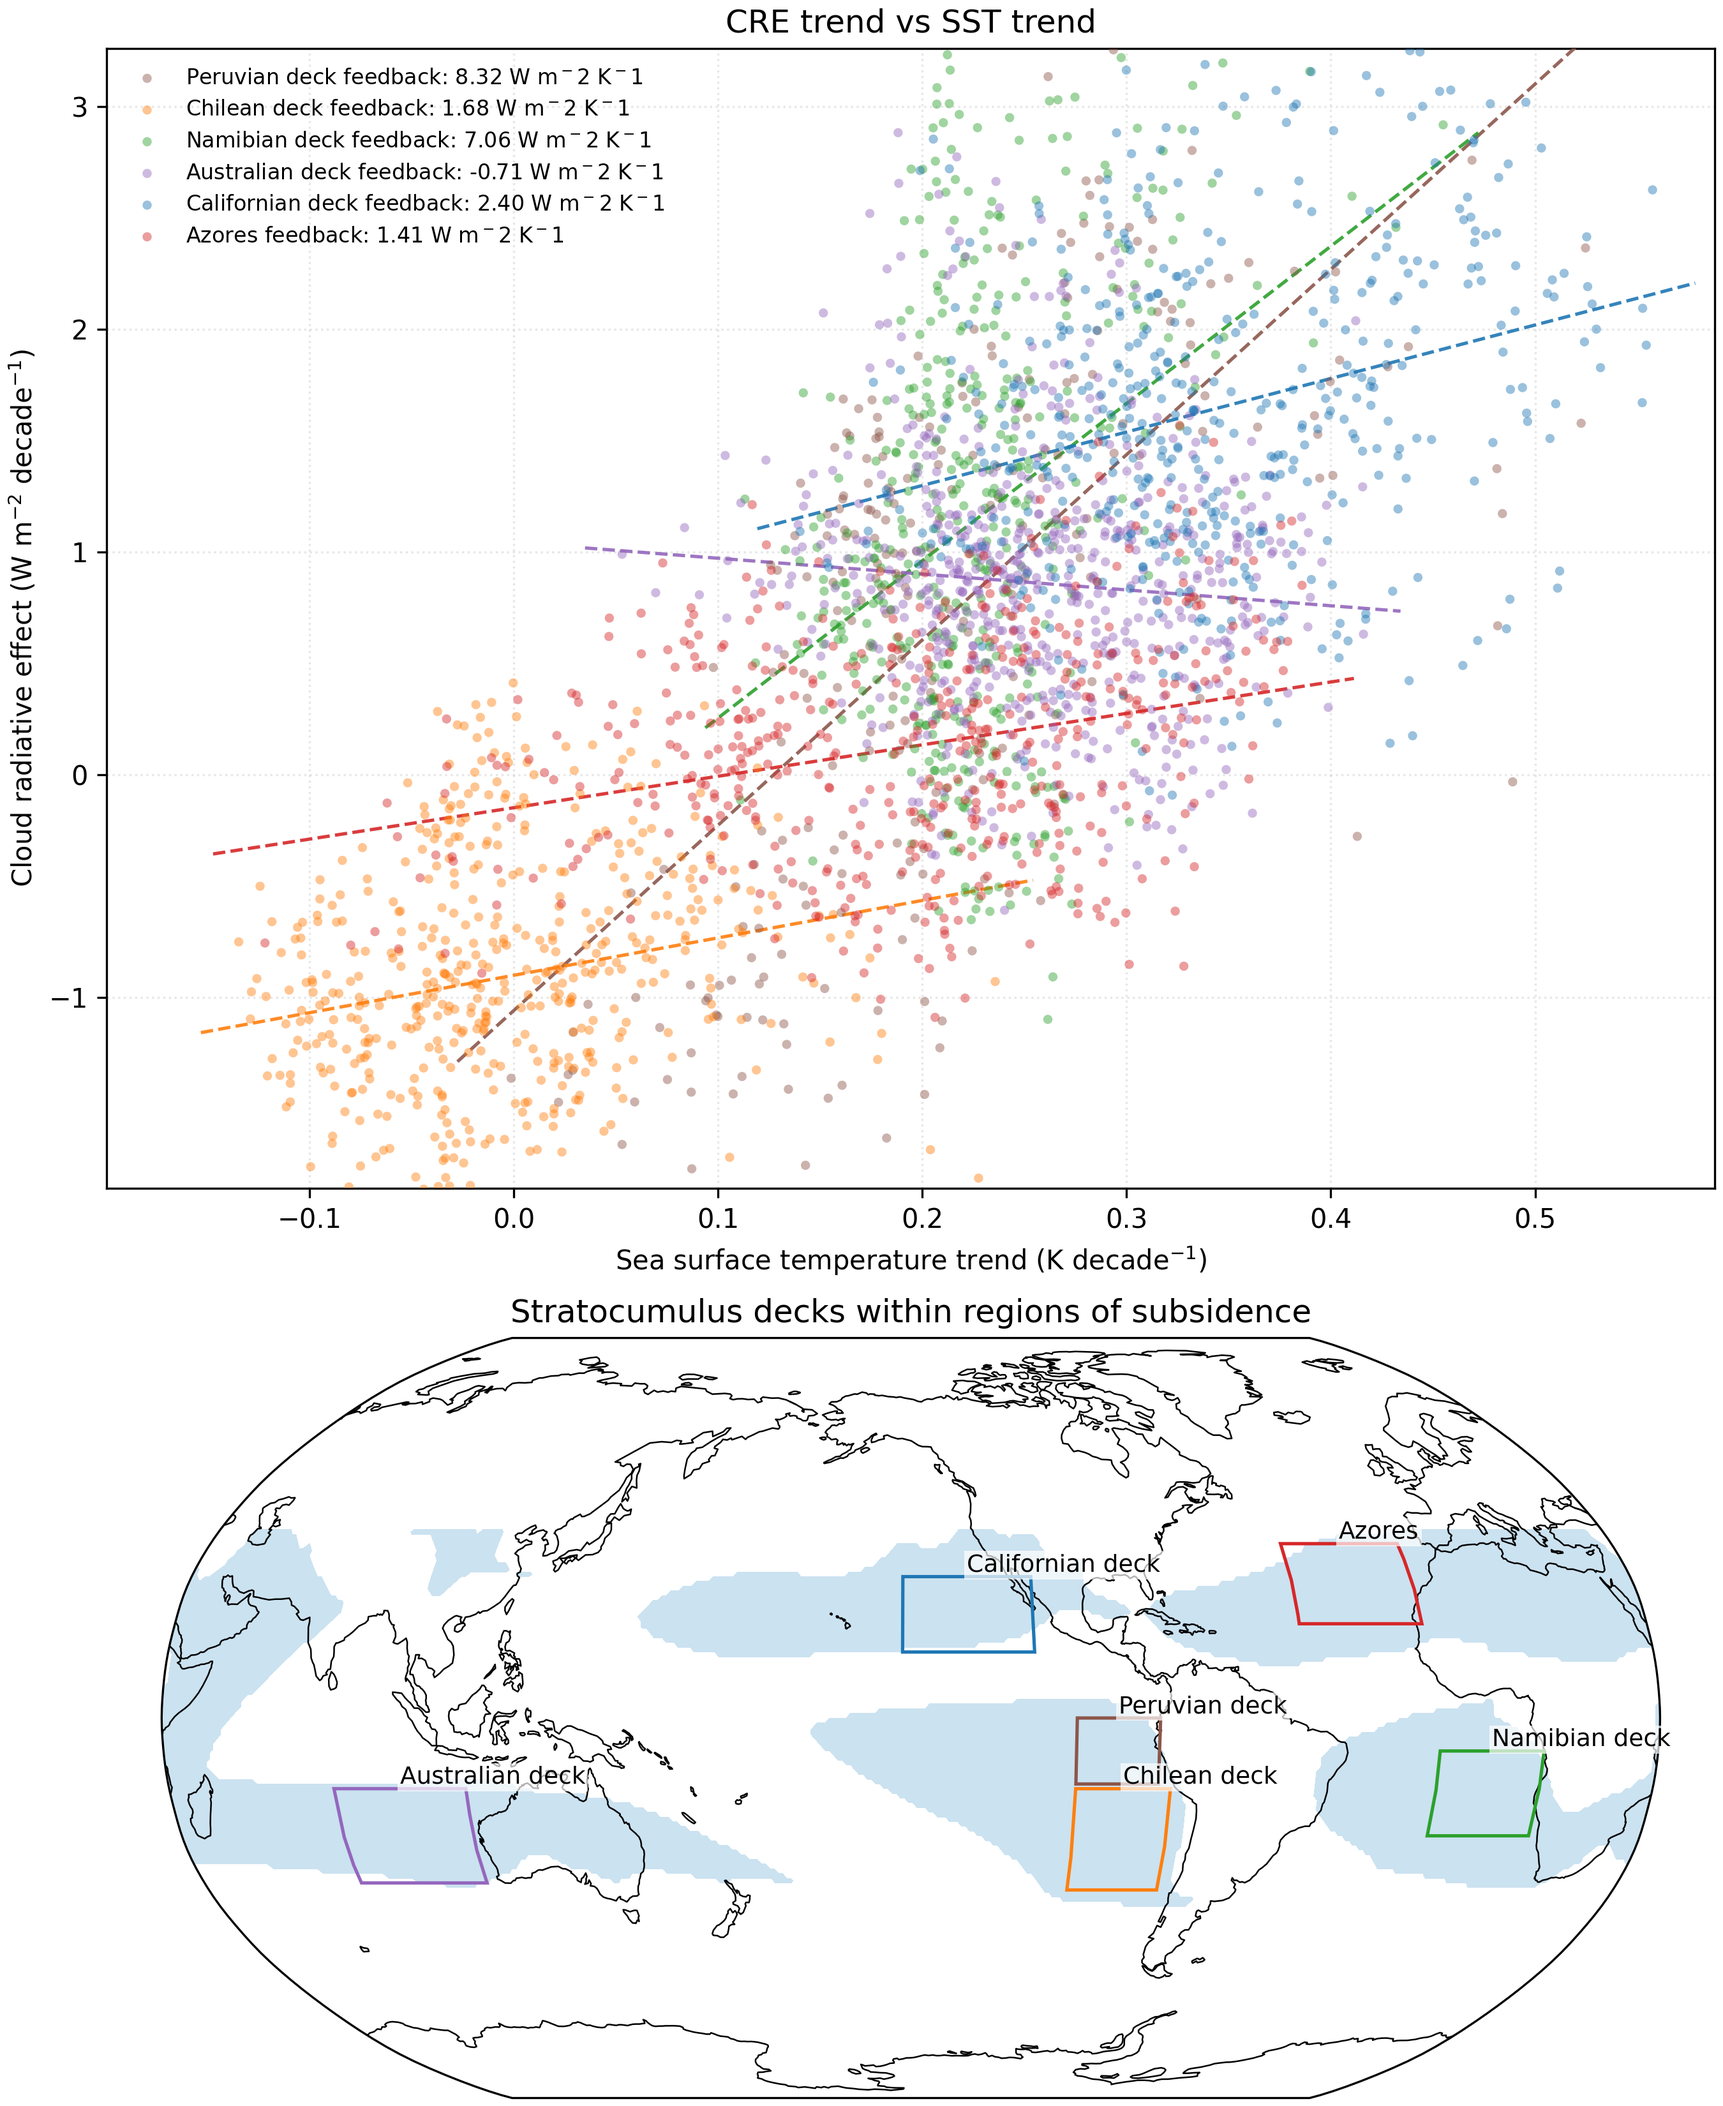
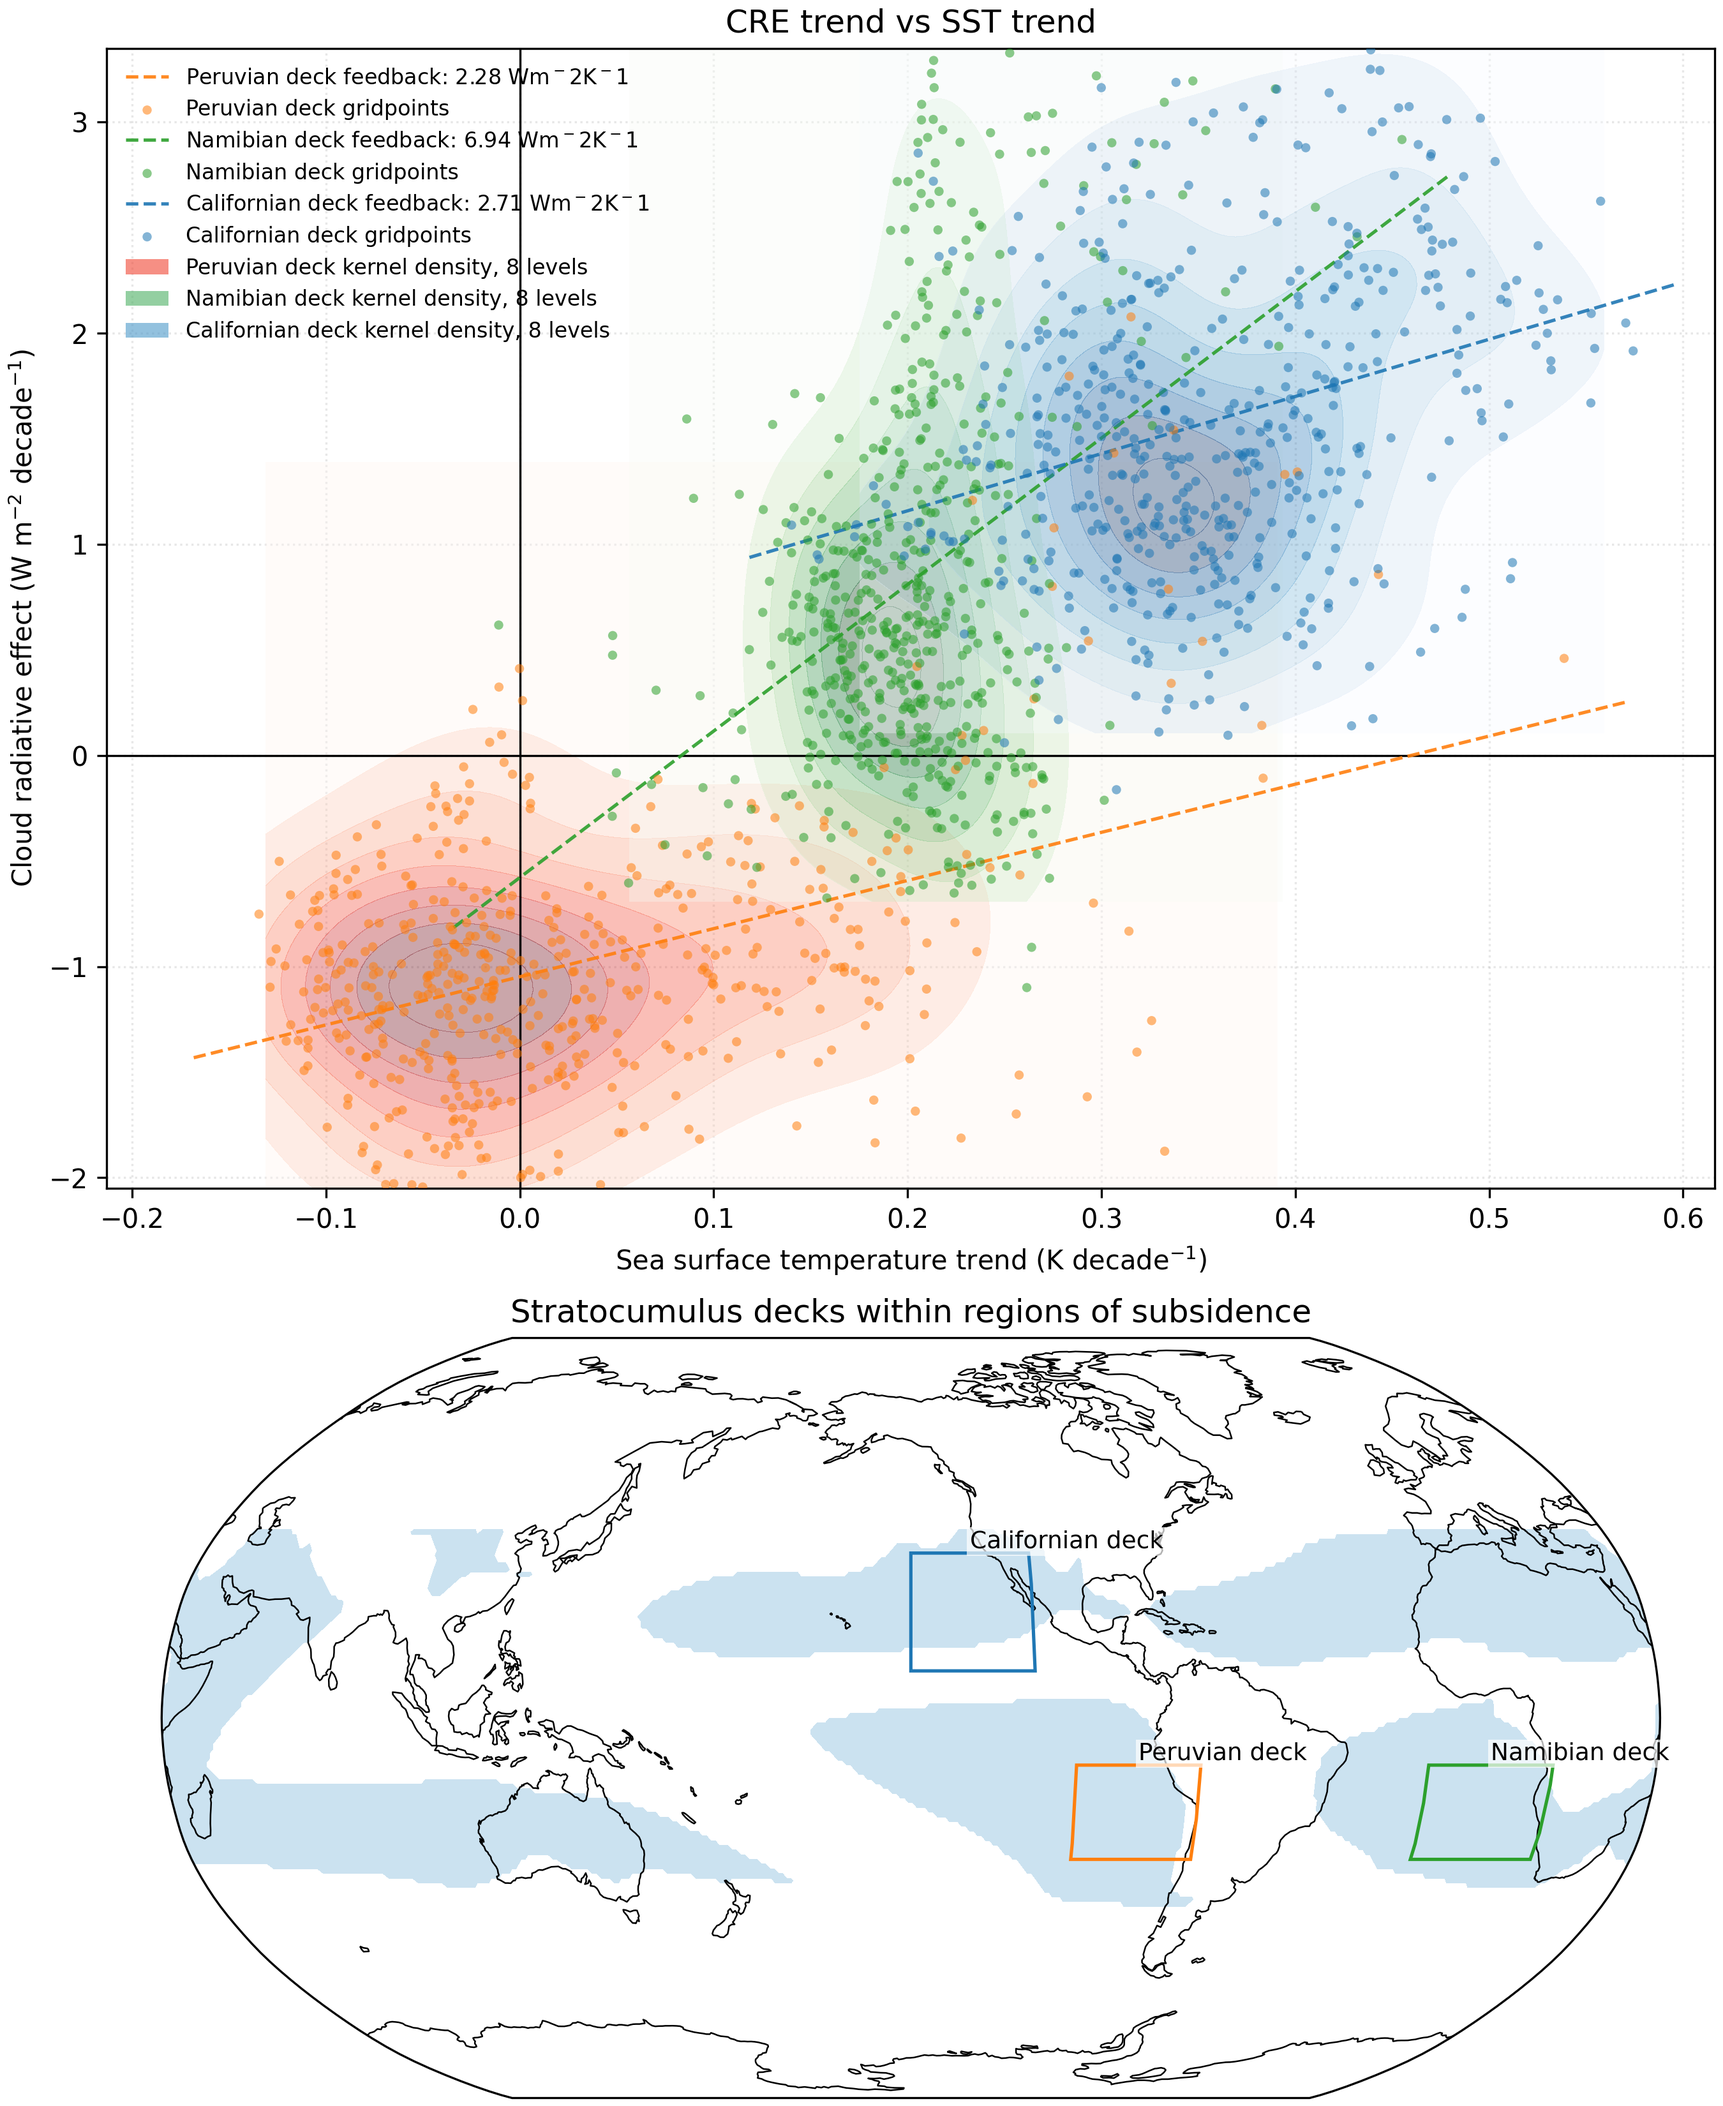
removing regions with no trend, adding contourf of kd

diff --git a/cre_sst_trends.py b/cre_sst_trends.py
@@ -12,6 +12,8 @@ import matplotlib.patches as mpatches
 import cartopy.crs as ccrs
 import numpy as np
 import xarray as xr
+from sklearn.neighbors import KernelDensity
+from matplotlib.colors import Normalize
 
 from calculate_manuscript_data import (
     CERES_OUTPUT_FILE,
@@ -32,12 +34,11 @@ MASK_VARS = [
 
 BOX_REGIONS = [
     # name, lat_min, lat_max, lon_min, lon_max, color
-    ("Peruvian deck", -14.0, 0.0, -100.0, -80.0, "tab:brown"),
-    ("Chilean deck", -36.5, -15, -100.0, -77.0, "tab:orange"),
-    ("Namibian deck", -25.0, -7.0, -12.5, 12.5, "tab:green"), 
-    ("Australian deck", -35.0, -15.0, 80.0, 112.0, "tab:purple"),
-    ("Californian deck", 14.0, 30.0, -142.0, -110.0, "tab:blue"),
-    ("Azores", 20.0, 37.0, -45.0, -15.0, "tab:red"),
+    ("Peruvian deck", -30.0, -10.0, -100.0, -70.0, "tab:orange"),
+    ("Namibian deck", -30.0, -10.0, -15, 15, "tab:green"), 
+    #("Australian deck", -35.0, -20.0, 90.0, 115.0, "tab:purple"),
+    ("Californian deck", 10.0, 35.0, -140.0, -110.0, "tab:blue"),
+    #("Azores", 10.0, 25.0, -35.0, -15.0, "tab:red"),
 ]
 
 def main() -> None:
@@ -64,20 +65,42 @@ def main() -> None:
     ax.set_xlabel("Sea surface temperature trend (K decade$^{-1}$)")
     ax.set_ylabel("Cloud radiative effect (W m$^{-2}$ decade$^{-1}$)")
     ax.set_title("CRE trend vs SST trend")
-    
+
+    # prepare density colormap cycle and legend proxies
+    DENSITY_CMAPS = ["Reds", "Greens", "Blues", "Purples", "Oranges"]
+    density_handles: list = []
+    density_labels: list[str] = []
+
     cloud_annual = ceres[cloud_var].sel(period="annual") * 10.0
     # prefer annual SST trend if available
     if sst_annual_var in sst:
         sst_annual = sst[sst_annual_var] * 10.0
+        print("annual SSTs in use")
     else:
         # fall back to mean of seasonal trends
         if sst_seasonal_var in sst:
             # take weighted mean across seasons (equal weights here)
+            print("SST trend as annual weighted mean of seasonal")
             sst_annual = sst[sst_seasonal_var].mean(dim="season", skipna=True) * 10.0
         else:
             raise RuntimeError("No SST annual or seasonal trend variable found in SST dataset")
 
-    for name, lat_min, lat_max, lon_min, lon_max, color in BOX_REGIONS:
+    # build tropical-subsidence mask union and regrid it to the cloud (CERES) grid so we can mask box points
+    positive_mask = masks["positive_omega_mask"]
+    if "season" in positive_mask.dims:
+        mask_union = positive_mask.any(dim="season")
+    else:
+        mask_union = positive_mask
+
+    # ensure mask is on the same grid as cloud_annual for straightforward selection
+    try:
+        mask_on_cloud_grid = regrid_to_target(mask_union, cloud_annual["lat"], cloud_annual["lon"])
+    except Exception:
+        # if regridding fails, fall back to mask_union (may still work if already aligned)
+        mask_on_cloud_grid = mask_union
+        print("Warning: regridding mask to cloud grid failed — using original mask (may mismatch coords)")
+
+    for i, (name, lat_min, lat_max, lon_min, lon_max, color) in enumerate(BOX_REGIONS):
         # align sst/cloud to ensure matching coords
         # SST annual trend data
         sst_a, cloud_a = xr.align(sst_annual, cloud_annual, join="inner")
@@ -108,17 +131,55 @@ def main() -> None:
         sst_sel = sst_a.isel(lon=lon_idx, lat=lat_idx)
         cloud_sel = cloud_a.isel(lon=lon_idx, lat=lat_idx)
 
+        # also extract mask values for these gridpoints (mask is on cloud grid)
+        try:
+            mask_sel = mask_on_cloud_grid.isel(lon=lon_idx, lat=lat_idx)
+            mask_vals = np.asarray(mask_sel.values).ravel()
+        except Exception:
+            # if mask indexing fails, treat as no mask (all True)
+            mask_vals = np.ones_like(np.asarray(sst_sel.values).ravel(), dtype=bool)
+        
         if sst_sel.size == 0 or cloud_sel.size == 0:
             print(f"{name} lat-lon box returned no gridpoints (sst_sel.size={sst_sel.size}, cloud_sel.size={cloud_sel.size})")
             continue
 
         sst_vals = np.asarray(sst_sel.values).ravel()
         cloud_vals = np.asarray(cloud_sel.values).ravel()
-        valid = np.isfinite(sst_vals) & np.isfinite(cloud_vals)
-
+        # require finite values and that the point lies inside the tropical-subsidence mask
+        valid = np.isfinite(sst_vals) & np.isfinite(cloud_vals) & (np.asarray(mask_vals) > 0.5)
+        
         xs_pts = sst_vals[valid]
         ys_pts = cloud_vals[valid]
 
+        # --- density / KDE plot (scikit-learn KernelDensity) ----------------
+        # require a minimum number of points for a stable KDE
+        # standardize to avoid bandwidth issues across axes
+        x_mean, x_std = float(np.nanmean(xs_pts)), float(np.nanstd(xs_pts)) or 1.0
+        y_mean, y_std = float(np.nanmean(ys_pts)), float(np.nanstd(ys_pts)) or 1.0
+
+        xs_std = (xs_pts - x_mean) / x_std
+        ys_std = (ys_pts - y_mean) / y_std
+        samples = np.vstack([xs_std, ys_std]).T
+
+        # fit KDE in standardized space; bandwidth chosen empirically
+        kde = KernelDensity(bandwidth=0.4, kernel="gaussian")
+        kde.fit(samples)
+
+        # build evaluation grid in original units (zoom to cluster extent)
+        x_min = float(np.nanpercentile(xs_pts, 1.0))
+        x_max = float(np.nanpercentile(xs_pts, 99.0))
+        y_min = float(np.nanpercentile(ys_pts, 1.0))
+        y_max = float(np.nanpercentile(ys_pts, 99.0))
+        # small padding
+        pad_x = 0.02 * max(1e-6, x_max - x_min)
+        pad_y = 0.02 * max(1e-6, y_max - y_min)
+        x_grid = np.linspace(x_min - pad_x, x_max + pad_x, 100)
+        y_grid = np.linspace(y_min - pad_y, y_max + pad_y, 100)
+        Xg, Yg = np.meshgrid(x_grid, y_grid)
+        # convert grid to standardized space for scoring
+        grid_std = np.vstack([((Xg.ravel() - x_mean) / x_std), ((Yg.ravel() - y_mean) / y_std)]).T
+        log_dens = kde.score_samples(grid_std)
+        dens = np.exp(log_dens).reshape(Xg.shape)
 
         slope, intercept = np.polyfit(xs_pts, ys_pts, 1)
         x_min = float(np.nanmin(xs_pts))
@@ -126,9 +187,36 @@ def main() -> None:
         pad = 0.05 * max(1e-6, x_max - x_min)
         x_line = np.linspace(x_min - pad, x_max + pad, 3)
         y_line = slope * x_line + intercept
-        ax.scatter(xs_pts, ys_pts, s=12, alpha=0.45, color=color, edgecolors="none", label=f"{name} feedback: {slope:.2f} W m$^{-2}$ K$^{-1}$", zorder=4)
-        ax.plot(x_line, y_line, color=color, linestyle="--", linewidth=1.25, alpha=0.9, zorder=3)
+        ax.plot(x_line, y_line, color=color, linestyle="--", linewidth=1.25, alpha=0.9, zorder=3, label=f"{name} feedback: {slope:.2f} Wm$^-2$K$^-1$")
         print(f"{name}: cluster linear fit slope = {slope:.4f}")
+
+        ax.scatter(xs_pts, ys_pts, s=12, alpha=0.55, color=color, edgecolors="none", label=f"{name} gridpoints", zorder=4)
+
+        # normalize density for nicer contour alpha mapping
+        norm = Normalize(vmin=np.nanpercentile(dens, 5.0), vmax=np.nanpercentile(dens, 98.0))
+        # choose a per-box sequential colormap from the small palette
+        cmap_name = DENSITY_CMAPS[i % len(DENSITY_CMAPS)]
+        cmap = plt.get_cmap(cmap_name)
+        # draw filled contours under the scatter (low alpha)
+        cf = ax.contourf(
+            Xg,
+            Yg,
+            dens,
+            levels=8,
+            cmap=cmap,
+            alpha=0.35,
+            norm=norm,
+            zorder=2,
+            extend="both",
+        )
+        # create a proxy patch for the density legend (use a mid-tone from the cmap)
+        proxy_color = cmap(0.6)
+        density_handles.append(mpatches.Patch(facecolor=proxy_color, edgecolor="none", alpha=0.6))
+        density_labels.append(f"{name} kernel density, 8 levels")
+
+        # plot all grid-point pairs inside the box (small semi-transparent points)
+
+
 
         all_plot_x.extend(xs_pts[np.isfinite(xs_pts)].tolist())
         all_plot_y.extend(ys_pts[np.isfinite(ys_pts)].tolist())
@@ -151,7 +239,16 @@ def main() -> None:
         ax.set_xlim(xmin - pad, xmax + pad)
         ax.set_ylim(ymin - pad, ymax + pad)
 
-    ax.legend(frameon=False, loc="upper left", fontsize=8)
+    # add solid black axes at x=0 and y=0
+    ax.axvline(0.0, color="k", linewidth=0.8, zorder=2)
+    ax.axhline(0.0, color="k", linewidth=0.8, zorder=2)
+
+    # merge existing legend entries (gridpoints / mean / fit lines) with density proxies
+    handles, labels = ax.get_legend_handles_labels()
+    if density_handles:
+        handles = handles + density_handles
+        labels = labels + density_labels
+    ax.legend(handles=handles, labels=labels, frameon=False, loc="upper left", fontsize=8)
     ax.grid(alpha=0.3, linestyle=":")
 
     # bottom panel: global map showing the tropical-subsidence mask used
